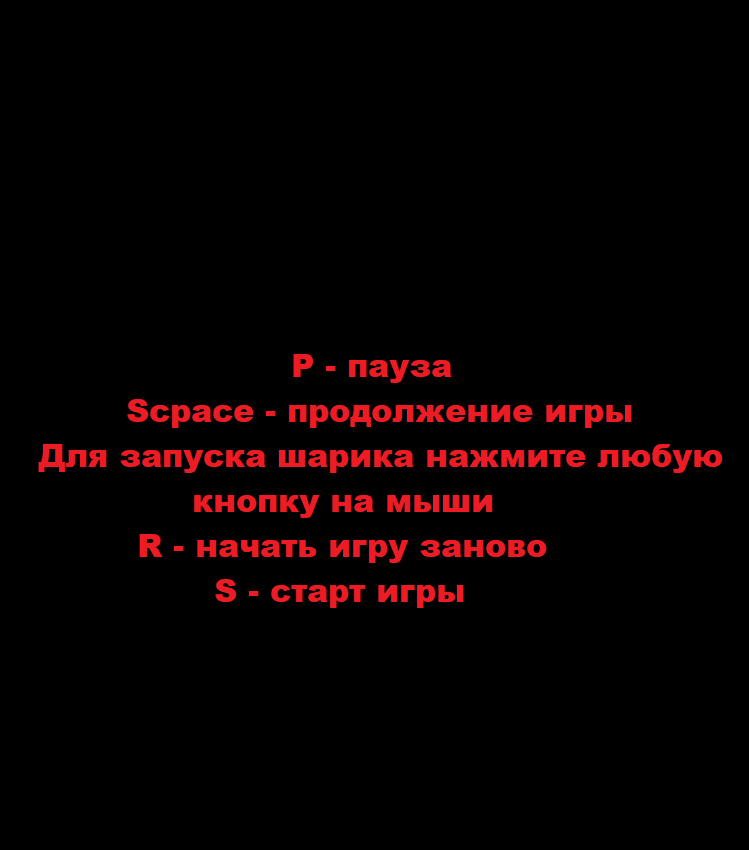
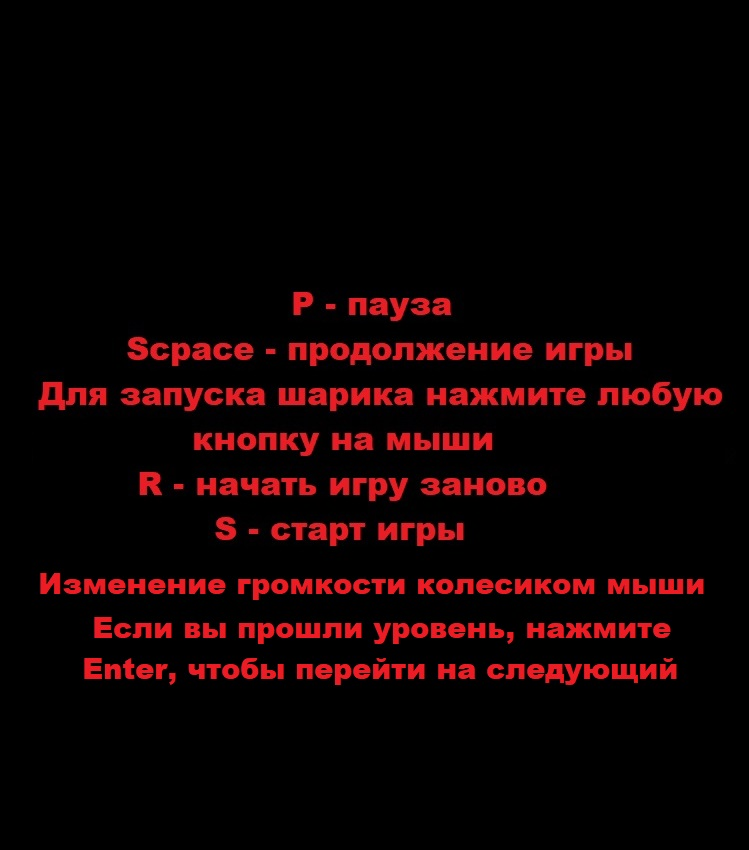
Volume control, minor changes, adding a new level

Changed region(s): [[0.0307, 0.3365, 0.9826, 0.8259]]

diff --git a/main.py b/main.py
@@ -1,3 +1,6 @@
+import pygame
+from pygame import mixer
+
 from functions import *
 
 # создаём группы спрайтов
@@ -27,15 +30,19 @@ fps = 150
 running = True
 dead = 0
 score = '000'
-list_of_maps = ['map.map']
+# список уровней
+list_of_maps = ['map.map', 'map_2.map']
 current_level = list_of_maps[0]
 # загрузка картинок
 star = pygame.transform.scale(load_image('star.png', -1), (100, 50))
 fon = pygame.transform.scale(load_image('fon2.jpg'), (750, 850))
 heart = pygame.transform.scale(load_image('heart.jpg', -1), (65, 47))
 # загрузка музыки
-pygame.mixer.music.load(os.path.join('data', "music.mp3"))
-pygame.mixer.music.play(-1)
+mixer.music.load(os.path.join('data', "music.mp3"))
+mixer.music.play(-1)
+# уровень громкости
+vol = 1.0
+# отключение отображения курсора
 pygame.mouse.set_visible(False)
 # основной цикл игры
 while running:
@@ -49,13 +56,20 @@ while running:
             if not start:
                 ball = Ball(ball_sprite)
                 board = Board(board_sprite, left, r)
-                maps('map.map', stens_sprite, karta_sprites, block_sprite)
+                maps(current_level, stens_sprite, karta_sprites, block_sprite)
                 start = True
                 dvij = True
                 all_sprites.add(Background(fon), board_sprite, ball_sprite)
                 ball.is_paused = True
         if dvij and (event.type == pygame.KEYDOWN and event.key == pygame.K_p):
             switch_paused(ball, board, screen)
+        # регулировка громкости музыки
+        if event.type == pygame.MOUSEWHEEL:
+            if event.y > 0:
+                vol = vol + 0.1 if vol < 1.0 else vol
+            elif event.y < 0:
+                vol = vol - 0.1 if vol > 0.0 else vol
+            mixer.music.set_volume(vol)
         # передвижение доски кнопками или мышкой
         if dvij:
             if event.type == pygame.KEYDOWN and event.key == pygame.K_LEFT:
@@ -68,7 +82,8 @@ while running:
                 board.right = True
             elif event.type == pygame.MOUSEMOTION:
                 board.update(event.pos[0])
-            elif (event.type == pygame.MOUSEBUTTONDOWN) or (event.type == pygame.KEYDOWN and event.key == pygame.K_t):
+            elif (event.type == pygame.MOUSEBUTTONDOWN and event.button in (1, 3)) or (
+                    event.type == pygame.KEYDOWN and event.key == pygame.K_t):
                 ball.is_paused = False
             elif event.type == pygame.KEYDOWN and event.key == pygame.K_r:
                 locals()

diff --git a/functions.py b/functions.py
@@ -341,8 +341,8 @@ def win(screen, list_of_maps, block_sprite, current_level, ball, score, stens_sp
                     if event.type == pygame.QUIT:
                         pygame.quit()
                         sys.exit()
-                    # если пользователь нажал на N, загружаем новый уровень и обновляем данные
-                    if event.type == pygame.KEYDOWN and event.key == pygame.K_n:
+                    # если пользователь нажал на Enter, загружаем новый уровень и обновляем данные
+                    if event.type == pygame.KEYDOWN and event.key == pygame.K_RETURN:
                         c = False
                         ball.rect.x = 370
                         ball.rect.y = 750
